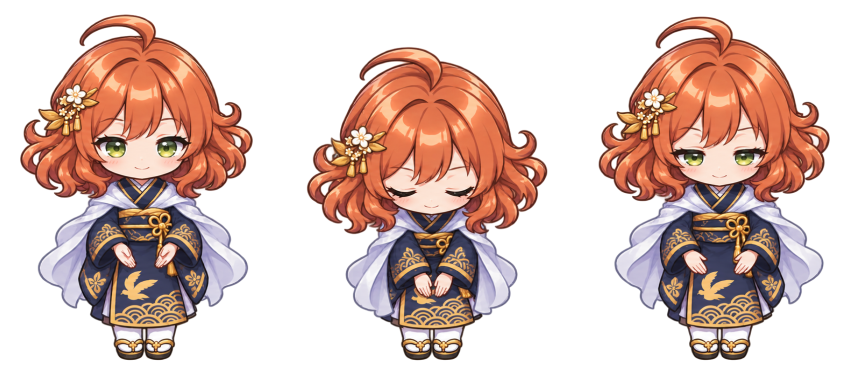
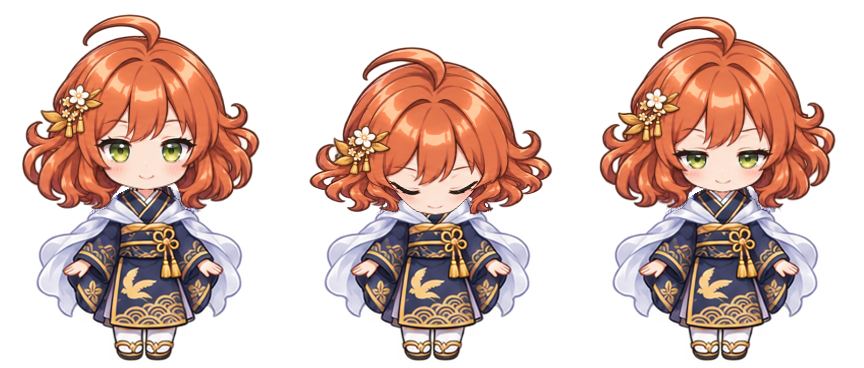
M41: Swap local gesture roles and stabilize the startup bow

diff --git a/tests/HagoromoChan.Tests/CharacterReactionTests.cs b/tests/HagoromoChan.Tests/CharacterReactionTests.cs
@@ -222,7 +222,7 @@ internal static class CharacterReactionTests
         longBow.ObserveStartup(true, true, 0);
         longBow.ObserveMenu(true, 20, 10);
         Check(longBow.Sample(1419).Pose == ReactionPose.StartupBow &&
-              longBow.Sample(1420) is { Pose: ReactionPose.MenuPeek, Artwork: LocalMotionCells.MenuLeft },
+              longBow.Sample(1420) is { Pose: ReactionPose.MenuPeek, Artwork: LocalMotionCells.TiltLeft },
             "the immediate menu's peek survives the long bow and starts at its boundary");
         var closedDuringBow = new CharacterReactionState();
         closedDuringBow.ObserveStartup(true, true, 0);
@@ -243,22 +243,23 @@ internal static class CharacterReactionTests
         off.SetEnabled(true, 12);
         Check(off.Sample(12).Pose == ReactionPose.Still, "enabling motion does not replay the open menu");
 
-        foreach (var (offset, key) in new[] { (-20d, LocalMotionCells.MenuRight), (-.25, LocalMotionCells.MenuRight),
-                                            (0d, LocalMotionCells.MenuLeft), (.25, LocalMotionCells.MenuLeft),
-                                            (20d, LocalMotionCells.MenuLeft) })
+        foreach (var (offset, key) in new[] { (-20d, LocalMotionCells.TiltRight), (-.25, LocalMotionCells.TiltRight),
+                                            (0d, LocalMotionCells.TiltLeft), (.25, LocalMotionCells.TiltLeft),
+                                            (20d, LocalMotionCells.TiltLeft) })
         {
             var placedMenu = new CharacterReactionState();
             placedMenu.ObserveMenu(true, offset, 0);
-            Check(placedMenu.Sample(0).Artwork == key, "peek uses the side opposite actual menu placement");
+            Check(placedMenu.Sample(0) is { DurationMs: 580 } frame && frame.Artwork == key,
+                "menu tilt uses the side opposite its actual placement and keeps the tilt tempo");
         }
 
         var menu = new CharacterReactionState();
         menu.ObserveMenu(true, -1, 10);
         menu.Receive([Row(1, "new")], 20);
         var peek = menu.Sample(200);
-        Check(peek is { Pose: ReactionPose.MenuPeek, Artwork: LocalMotionCells.MenuRight, ArtworkCell: 1 },
+        Check(peek is { Pose: ReactionPose.MenuPeek, Artwork: LocalMotionCells.TiltRight, ArtworkCell: 1 },
             "one short reaction visibly leans away from the open menu");
-        Check(menu.Sample(451).Pose == ReactionPose.Still && menu.Sample(3100).Pose == ReactionPose.Still,
+        Check(menu.Sample(590).Pose == ReactionPose.Still && menu.Sample(3100).Pose == ReactionPose.Still,
             "a long-open menu does not replay or run normal background actions");
         menu.ObserveMenu(false, 0, 3101);
         Check(menu.Sample(3101).Pose == ReactionPose.Idle, "no stale menu or expired arrival");
@@ -266,8 +267,8 @@ internal static class CharacterReactionTests
         reopen.ObserveMenu(true, -1, 0);
         reopen.ObserveMenu(false, 0, 150);
         reopen.ObserveMenu(true, 1, 160);
-        Check(reopen.Sample(200).Artwork == LocalMotionCells.MenuRight, "a new target cannot flip a protected visual");
-        Check(reopen.Sample(440).Pose == ReactionPose.MenuPeek && reopen.Sample(610).Artwork == LocalMotionCells.MenuLeft,
+        Check(reopen.Sample(200).Artwork == LocalMotionCells.TiltRight, "a new target cannot flip a protected visual");
+        Check(reopen.Sample(580).Pose == ReactionPose.MenuPeek && reopen.Sample(750).Artwork == LocalMotionCells.TiltLeft,
             "the next peek uses the next menu side only after the first ends");
         var quickMenu = new CharacterReactionState();
         quickMenu.Fail(0);
@@ -276,22 +277,47 @@ internal static class CharacterReactionTests
         Check(quickMenu.Sample(799).Pose == ReactionPose.Failed && quickMenu.Sample(800).Pose == ReactionPose.Idle,
             "a menu that closes before a safe boundary never triggers a late peek");
 
+        foreach (var (offset, key) in new[] { (-20d, LocalMotionCells.PeekLeft), (0d, LocalMotionCells.PeekRight),
+                                            (20d, LocalMotionCells.PeekRight) })
+        {
+            var opened = new CharacterReactionState();
+            opened.ConversationChanged(false, true, 0, mascotClick: true, conversationOffsetX: offset);
+            Check(opened.Sample(150) is { Pose: ReactionPose.ConversationOpen, DurationMs: 440, ArtworkCell: 1 } frame
+                  && frame.Artwork == key, "the visible conversation gets a peek in its direction");
+        }
+        var queuedOpen = new CharacterReactionState();
+        queuedOpen.Fail(0);
+        queuedOpen.ConversationChanged(false, true, 20, mascotClick: true, conversationOffsetX: -20);
+        queuedOpen.ObserveMenu(true, -20, 30);
+        queuedOpen.ObserveMenu(false, 0, 50);
+        Check(queuedOpen.Sample(800).Artwork == LocalMotionCells.PeekLeft,
+            "a menu on the opposite side cannot change a queued conversation's direction");
+        var otherOpen = new CharacterReactionState();
+        otherOpen.ConversationChanged(false, true, 0, waveOnOpen: false, conversationOffsetX: -20);
+        Check(otherOpen.Sample(0).Pose == ReactionPose.Idle, "non-mascot opening does not peek");
+        otherOpen.SetEnabled(false, 10);
+        otherOpen.ObserveVisibility(false);
+        otherOpen.ConversationChanged(false, true, 20, mascotClick: true, conversationOffsetX: -20);
+        Check(otherOpen.Sample(20).Pose == ReactionPose.Still, "motion-off suppresses the conversation peek");
+        otherOpen.SetEnabled(true, 30);
+        Check(otherOpen.Sample(30).Pose == ReactionPose.Idle, "enabling motion does not replay the conversation peek");
+
         var window = new CharacterReactionState();
         window.ObserveVisibility(true); // automatic display
         window.ConversationChanged(true, true, 1, mascotClick: true);
         Check(window.Sample(1).Pose == ReactionPose.Idle, "no open reaction for automatic or unchanged visibility");
         window.ObserveVisibility(false);
         window.ConversationChanged(false, true, 10, mascotClick: true);
-        Check(window.Sample(200) is { Pose: ReactionPose.ConversationOpen, Artwork: LocalMotionCells.Open, ArtworkCell: 1 },
-            "explicit mascot open uses a noticeable tilt");
+        Check(window.Sample(200) is { Pose: ReactionPose.ConversationOpen, Artwork: LocalMotionCells.PeekRight, ArtworkCell: 1 },
+            "explicit mascot open uses the existing upper-body peek");
         window.Suspend(true, 220);
         var held = window.Sample(240);
         window.Suspend(false, 260);
         window.ConversationChanged(true, false, 260, mascotClick: true);
-        Check(held.Pose == ReactionPose.ConversationOpen && window.Sample(629).Pose == ReactionPose.ConversationOpen,
+        Check(held.Pose == ReactionPose.ConversationOpen && window.Sample(489).Pose == ReactionPose.ConversationOpen,
             "closing does not cut off the previous protected expression");
-        Check(window.Sample(630).Pose == ReactionPose.ConversationClose, "close follows the completed open");
-        Check(window.Sample(815) is { Pose: ReactionPose.ConversationClose, Artwork: LocalMotionCells.Close, ArtworkCell: 1 },
+        Check(window.Sample(490).Pose == ReactionPose.ConversationClose, "close follows the completed open");
+        Check(window.Sample(675) is { Pose: ReactionPose.ConversationClose, Artwork: LocalMotionCells.Close, ArtworkCell: 1 },
             "close uses a small nod instead of a shutdown farewell");
         window.BeginShutdown(1100, true);
         Check(window.Sample(1100).Pose == ReactionPose.Shutdown, "normal shutdown retains its existing dedicated farewell");
@@ -299,9 +325,10 @@ internal static class CharacterReactionTests
         var definitions = new (string Key, Action<CharacterReactionState> Start)[]
         {
             (LocalMotionCells.Startup, x => x.ObserveStartup(true, true, 0)),
-            (LocalMotionCells.MenuRight, x => x.ObserveMenu(true, -1, 0)),
-            (LocalMotionCells.MenuLeft, x => x.ObserveMenu(true, 1, 0)),
-            (LocalMotionCells.Open, x => x.ConversationChanged(false, true, 0, mascotClick: true)),
+            (LocalMotionCells.TiltRight, x => x.ObserveMenu(true, -1, 0)),
+            (LocalMotionCells.TiltLeft, x => x.ObserveMenu(true, 1, 0)),
+            (LocalMotionCells.PeekLeft, x => x.ConversationChanged(false, true, 0, mascotClick: true, conversationOffsetX: -20)),
+            (LocalMotionCells.PeekRight, x => x.ConversationChanged(false, true, 0, mascotClick: true)),
             (LocalMotionCells.Close, x => x.ConversationChanged(true, false, 0, mascotClick: true))
         };
         foreach (var (key, start) in definitions)

diff --git a/src/HagoromoChan.Desktop/CharacterReactionState.cs b/src/HagoromoChan.Desktop/CharacterReactionState.cs
@@ -14,9 +14,15 @@ internal readonly record struct ReactionFrame(ReactionPose Pose, long ElapsedMs,
 internal static class LocalMotionCells
 {
     public const int Width = 288, Height = 368, Count = 3, FootX = 144, FootY = 360;
-    public const string Startup = "startup-bow", MenuLeft = "menu-peek-left", MenuRight = "menu-peek-right",
-        Open = "conversation-open", Close = "conversation-close";
-    public static IReadOnlyList<string> Keys { get; } = Array.AsReadOnly(new[] { Startup, MenuLeft, MenuRight, Open, Close });
+    public const string Startup = "startup-bow", PeekLeft = "peek-left", PeekRight = "peek-right",
+        TiltLeft = "head-tilt-left", TiltRight = "head-tilt-right", Close = "conversation-close";
+    public static IReadOnlyList<string> Keys { get; } = Array.AsReadOnly(new[] { Startup, PeekLeft, PeekRight, TiltLeft, TiltRight, Close });
+    // Existing custom packs can continue providing cells under the old keys.
+    public static IReadOnlyDictionary<string, string> LegacyPackKeys { get; } =
+        new Dictionary<string, string>(StringComparer.Ordinal)
+        {
+            [PeekLeft] = "menu-peek-left", [PeekRight] = "menu-peek-right", [TiltLeft] = "conversation-open"
+        };
     public static bool Contains(string key) => Keys.Contains(key, StringComparer.Ordinal);
 }
 
@@ -168,7 +174,7 @@ internal sealed class CharacterReactionState(bool customArtwork = false)
         ReactionTimeline? CustomTimeline = null, Aim Aim = Aim.None, bool? Visible = null,
         bool Coalesce = false, string? DirectArtwork = null, double? UnreadLookFrom = null,
         bool WhileMenuOpen = false, string? LeftArtwork = null, int? ShutdownPlaybackLimitMs = null);
-    private readonly record struct Queued(MotionDefinition Definition, long At);
+    private readonly record struct Queued(MotionDefinition Definition, long At, bool FaceLeft);
     private readonly record struct Playing(MotionDefinition Definition, ReactionTimeline Timeline, long Started, string Artwork, long? EligibleAfter = null)
     {
         public ReactionPose Pose => Definition.Pose;
@@ -212,16 +218,16 @@ internal sealed class CharacterReactionState(bool customArtwork = false)
             new(ReactionPose.Shutdown, "farewell", Clip(700)),
             new(ReactionPose.StartupBow, LocalMotionCells.Startup, DrawnMotion(520, 300, 600),
                 ShutdownPlaybackLimitMs: 710),
-            new(ReactionPose.MenuPeek, LocalMotionCells.MenuRight, DrawnMotion(130, 130, 180),
-                Coalesce: true, WhileMenuOpen: true, LeftArtwork: LocalMotionCells.MenuLeft),
-            new(ReactionPose.ConversationOpen, LocalMotionCells.Open, DrawnMotion(180, 180, 220), Visible: true),
+            new(ReactionPose.MenuPeek, LocalMotionCells.TiltRight, DrawnMotion(180, 180, 220),
+                Coalesce: true, WhileMenuOpen: true, LeftArtwork: LocalMotionCells.TiltLeft),
+            new(ReactionPose.ConversationOpen, LocalMotionCells.PeekRight, DrawnMotion(130, 130, 180), Visible: true, LeftArtwork: LocalMotionCells.PeekLeft),
             // The authored 65ms apex could be lost to a 100ms render gap.
             new(ReactionPose.ConversationClose, LocalMotionCells.Close, DrawnMotion(140, 120, 190), Visible: false)
         }.ToDictionary(motion => motion.Pose);
 
-    private Playing Start(MotionDefinition motion, long now) =>
+    private Playing Start(MotionDefinition motion, long now, bool faceLeft = false) =>
         new(motion, customArtwork ? motion.CustomTimeline ?? motion.Timeline : motion.Timeline, now,
-            _uncoveredSide < 0 ? motion.LeftArtwork ?? motion.Artwork : motion.Artwork);
+            faceLeft ? motion.LeftArtwork ?? motion.Artwork : motion.Artwork);
 
     private Playing Start(ReactionPose pose, long now) => Start(Motions[pose], now);
 
@@ -234,7 +240,6 @@ internal sealed class CharacterReactionState(bool customArtwork = false)
     private ReactionPose? _lastGreeting;
     private long _lastGreetingAt;
     private bool _unread, _visible, _startupObserved, _menuOpen;
-    private int _uncoveredSide = -1;
     private long? _windowMoved;
     private (double X, double Y) _windowTarget;
     private (double X, double Y)? _cursor;
@@ -278,14 +283,13 @@ internal sealed class CharacterReactionState(bool customArtwork = false)
         if (open)
         {
             // Zero (centered or unavailable) chooses left consistently.
-            _uncoveredSide = menuOffsetX < 0 ? 1 : -1;
-            Request(ReactionPose.MenuPeek, nowMs);
+            Request(ReactionPose.MenuPeek, nowMs, faceLeft: !(menuOffsetX < 0));
         }
         else Advance(nowMs);
     }
 
     public void ConversationChanged(bool wasVisible, bool visible, long nowMs,
-        bool waveOnOpen = true, bool mascotClick = false)
+        bool waveOnOpen = true, bool mascotClick = false, double conversationOffsetX = 0)
     {
         if (_stopped || wasVisible == visible) return;
         _visible = visible;
@@ -309,7 +313,7 @@ internal sealed class CharacterReactionState(bool customArtwork = false)
         }
         _lastGreeting = pose;
         _lastGreetingAt = nowMs;
-        Request(pose, nowMs);
+        Request(pose, nowMs, faceLeft: conversationOffsetX < 0);
     }
 
     public void SendAccepted(string requestId, long nowMs)
@@ -508,7 +512,7 @@ internal sealed class CharacterReactionState(bool customArtwork = false)
         return _unread ? ReactionPose.Unread : ReactionPose.Idle;
     }
 
-    private void Request(ReactionPose pose, long nowMs)
+    private void Request(ReactionPose pose, long nowMs, bool faceLeft = false)
     {
         if (!_enabled || _stopped || IsClosing) return;
         Prune(nowMs);
@@ -520,7 +524,7 @@ internal sealed class CharacterReactionState(bool customArtwork = false)
             if (greeting < 0) return;
             _pending.RemoveAt(greeting);
         }
-        _pending.Add(new Queued(spec, nowMs));
+        _pending.Add(new Queued(spec, nowMs, faceLeft));
         Advance(nowMs);
     }
 
@@ -555,7 +559,7 @@ internal sealed class CharacterReactionState(bool customArtwork = false)
             var leading = _pending[eligible];
             if (!CanLeaveBackground(leading.At, nowMs)) return;
             _pending.RemoveAt(eligible);
-            _finite = Start(leading.Definition, nowMs);
+            _finite = Start(leading.Definition, nowMs, leading.FaceLeft);
             _background = null;
         }
         else if (_background is null ||

diff --git a/src/HagoromoChan.Desktop/MainWindow.Interaction.cs b/src/HagoromoChan.Desktop/MainWindow.Interaction.cs
@@ -194,7 +194,17 @@ public partial class MainWindow : Window
         }
 
         _farewellAfterMenu = false;
-        _reactions.ConversationChanged(wasVisible, visible, Environment.TickCount64, waveOnOpen, mascotClick);
+        var conversationOffsetX = 0d; // Centered or unavailable: use the default rightward peek.
+        if (visible && mascotClick)
+        {
+            // Input and history share one HWND; Arrange has already placed it.
+            var target = NativeDesktop.Bounds(_panels.Conversation);
+            var mascot = NativeDesktop.Bounds(this);
+            if (target.Width > 0 && mascot.Width > 0)
+                conversationOffsetX = (target.X + target.Width / 2.0) - (mascot.X + mascot.Width / 2.0);
+        }
+        _reactions.ConversationChanged(wasVisible, visible, Environment.TickCount64, waveOnOpen, mascotClick,
+            conversationOffsetX);
     }
 
     private void DismissSurfaces() => DismissSurfaces(mascotClick: false);

diff --git a/src/HagoromoChan.Desktop/CharacterReactionPack.cs b/src/HagoromoChan.Desktop/CharacterReactionPack.cs
@@ -145,9 +145,13 @@ internal sealed class CharacterReactionPack
 
     public bool HasAction(string action) => _actions.ContainsKey(action);
 
-    public BitmapSource SelectLocalCell(string key, int cell) =>
-        _actions.TryGetValue(key, out var frames) && cell >= 0 && cell < frames.Length
+    public BitmapSource SelectLocalCell(string key, int cell)
+    {
+        if (!_actions.TryGetValue(key, out var frames) && LocalMotionCells.LegacyPackKeys.TryGetValue(key, out var legacy))
+            _actions.TryGetValue(legacy, out frames);
+        return frames is not null && cell >= 0 && cell < frames.Length
             ? frames[cell].Bitmap : _actions["idle"][0].Bitmap;
+    }
 
     public BitmapSource Select(string action, double progress, double gazeX, double gazeY)
     {

diff --git a/docs/milestones/M41.md b/docs/milestones/M41.md
@@ -65,3 +65,11 @@
 - 回帰検査を追加：お辞儀の3区間、連続入力と終了期限、開いたメニューへの切替と閉じた場合の破棄、左右・中心、動作OFF。Windowsでの速度と重なりは再確認待ち。main 未統合。
 - 首かしげは作画枝 `b8a8d00ed5ccb41b07702b198e95d5394cbb403b` の修正版シートを同梱。通常立ち絵を基準に肩・襟・足元を固定し、頭・表情だけを描き分けた。3コマすべてで y=214 以下の RGBA が従来の通常立ち絵と一致し、足裏は y=359 のまま。明暗2背景の等倍比較で確認。閉じるときの小さな会釈は変更なし。
 - 修正版のWindows対象Releaseと描画検査のビルドは警告・エラーなし。Coreは51/52で、対象の回帰検査は成功。未成立の1件は同じ隔離Linux環境で従来から発生する制御パイプの権限エラー。Windowsでの実際の見た目は再確認待ち。
+
+## 操作ごとの作画を再割当（2026-11-28 JST）
+
+- Windows試用版 `28335730f96b4739b48898c1b0f7186060cba9e1` の指摘を受け、キャラクタークリックで会話窓が実際に開いたときは窓の方向へのぞく絵（130 / 130 / 180 ms）、右クリックは実メニューを避ける方向への首かしげ絵（180 / 180 / 220 ms）へ変更。メニューは配置と即時表示を維持。現在の入力・履歴は同じ実窓なので、画面上の横中心で判断する。上下配置などの同中心または測定不能時は会話側を右、メニュー側の反応を左に固定する。方向は受付時に確定し、再生中に反転しない。
+- 既存作画は対応する描画名で再利用し、右向き首かしげだけ専用作画を追加する。鏡映はしない。パックの旧資産名を互換扱いとし、資産がなければ従来どおり同じパックの休止絵を使う。お辞儀の1.42秒と閉じる会釈の時間は変更しない。お辞儀の肩・足のブレは別途作画で調整する。
+- 検査は左右と中央、保留中の方向固定、無関係な窓表示・動作OFFからの未再生、お辞儀・会釈・終了の回帰。Windowsの見え方と新作画の全セル検査は素材結合後に確認する。main未統合。
+- 作画候補は `cf6ed5a08e50a433566010e8e112d0274f47e9a4`。起動お辞儀は肩・襟の下端を固定し、通常立ち絵と3コマの y=216 以下の RGBA（左右両足を含む）を一致させた。頂点の頭頂は通常より36 px下がり、閉じる小会釈とは区別する。左右の首かしげも y=214 以下が通常立ち絵と一致。肩と足元および頭の動きを明暗260 DIPの比較と元画像の差分で確認した。
+- 結合版の Windows 対象 Release と描画検査ビルドは警告・エラーなし。同梱PNG 6個がすべて原本byteと一致。新しい左右切替とタイミングの回帰は合格、Core 51/52 の不成立は既知の Linux 制御パイプ権限のみ。Windows実機の見た目は再確認待ち。
